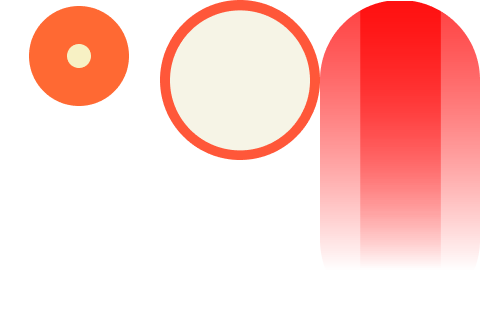
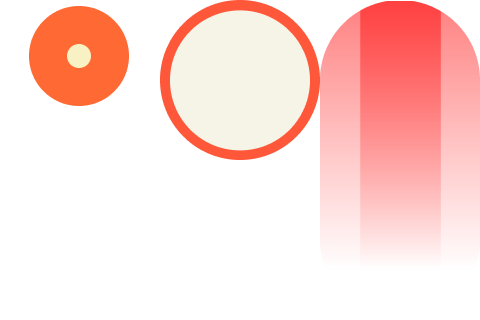
Power Shot bullet

Changed region(s): [[0.6562, 0.0, 1.0, 0.75]]

diff --git a/src/Entities/Bullet.cpp b/src/Entities/Bullet.cpp
@@ -7,9 +7,10 @@
 
 Bullet::Bullet()
 {
+	bulletTexture = ResourceManager::getInstance().GetBulletTexture();
+	bulletRedTexture = ResourceManager::getInstance().GetPowerBulletTexture();
 	gen = std::mt19937(rd());
 	dis = std::uniform_real_distribution<float>(-MAX_SPREAD_ANGLE, MAX_SPREAD_ANGLE);
-	bulletTexture = ResourceManager::getInstance().GetBulletTexture();
 	timer = new sf::Clock;
 	SetTextureValues();
 }
@@ -41,22 +42,18 @@ void Bullet::SetTextureValues()
 void Bullet::Fire(float posX, float posY, float dirX, float dirY)
 {
 	intRectPosX = 0;
-	// Normalize the original direction vector
 	sf::Vector2f originalDir(dirX, dirY);
 	float length = std::sqrt(originalDir.x * originalDir.x + originalDir.y * originalDir.y);
 	if (length != 0)
 		originalDir /= length;
 	else
-		originalDir = sf::Vector2f(1.0f, 0.0f); // Default direction if zero vector
+		originalDir = sf::Vector2f(1.0f, 0.0f);
 
-	// Get a random deviation in degrees and convert to radians
 	float deviationDegrees = getRandomDeviation();
 	float deviationRadians = degToRad(deviationDegrees);
 
-	// Rotate the original direction by the deviation angle
 	sf::Vector2f deviatedDir = rotateVector(originalDir, deviationRadians);
 
-	// Set the bullet's direction
 	this->bulletDirX = deviatedDir.x;
 	this->bulletDirY = deviatedDir.y;
 
@@ -171,5 +168,25 @@ void Bullet::SetBulletSprite(bool isActive)
 	{
 		bulletSprite.setPosition(-100, -100);
 		bulletSpeed = 0.0f;
+	}
+}
+
+void Bullet::ChangeTexture(BulletType bulletType)
+{
+	if (this->bulletType == bulletType)
+		return;
+
+	switch (bulletType)
+	{
+	case BulletType::Normal:
+		this->bulletType = bulletType;
+		bulletSprite.setTexture(*bulletTexture);
+		break;
+	case BulletType::Red:
+		this->bulletType = bulletType;
+		bulletSprite.setTexture(*bulletRedTexture);
+		break;
+	default:
+		break;
 	}
 }

diff --git a/src/Entities/Player.cpp b/src/Entities/Player.cpp
@@ -179,6 +179,8 @@ void Player::CreateBullets()
 
 void Player::Fire()
 {
+	BulletType currentBulletType;
+
 	if (!isAlive)
 		return;
 
@@ -192,6 +194,7 @@ void Player::Fire()
 
 			if (hasShotgun)
 			{
+				currentBulletType = BulletType::Red;
 				float angles[] = { -spreadShotgun, 0.0f, spreadShotgun };
 
 				for (int i = 0; i < 3; ++i)
@@ -203,6 +206,7 @@ void Player::Fire()
 					{
 						if (!(*iterator)->GetIsActive())
 						{
+							(*iterator)->ChangeTexture(currentBulletType);
 							(*iterator)->Fire(posX, posY, rotatedDirection.x, rotatedDirection.y);
 							isFiring = true;
 							cooldownClock.restart();
@@ -213,11 +217,13 @@ void Player::Fire()
 			}
 			else
 			{
+				currentBulletType = BulletType::Normal;
 				sf::Vector2f rotatedDirection(directionX, directionY);
 				for (iterator = bullets.begin(); iterator != bullets.end(); ++iterator)
 				{
 					if (!(*iterator)->GetIsActive())
 					{
+						(*iterator)->ChangeTexture(currentBulletType);
 						(*iterator)->Fire(posX, posY, rotatedDirection.x, rotatedDirection.y);
 						isFiring = true;
 						cooldownClock.restart();

diff --git a/src/Entities/Bullet.h b/src/Entities/Bullet.h
@@ -3,8 +3,15 @@
 #include <SFML/System.hpp>
 #include <random>
 
+enum class BulletType
+{
+    Normal = 1,
+    Red = 2
+};
+
 class Bullet
 {
+
 public:
     Bullet();
     ~Bullet();
@@ -14,11 +21,15 @@ public:
     bool GetIsActive() { return isActive; }
     sf::Sprite GetBulletSprite() { return bulletSprite; }
     void SetBulletSprite(bool isActive);
+    void ChangeTexture(BulletType bulletType);
 
 private:
     sf::Texture* bulletTexture;
+    sf::Texture* bulletRedTexture;
     sf::Sprite bulletSprite;
     sf::Clock* timer;
+
+    BulletType bulletType;
 
     const float BULLET_LIFETIME = 0.65f;
     const float MAX_SPREAD_ANGLE = 4.0f; 
